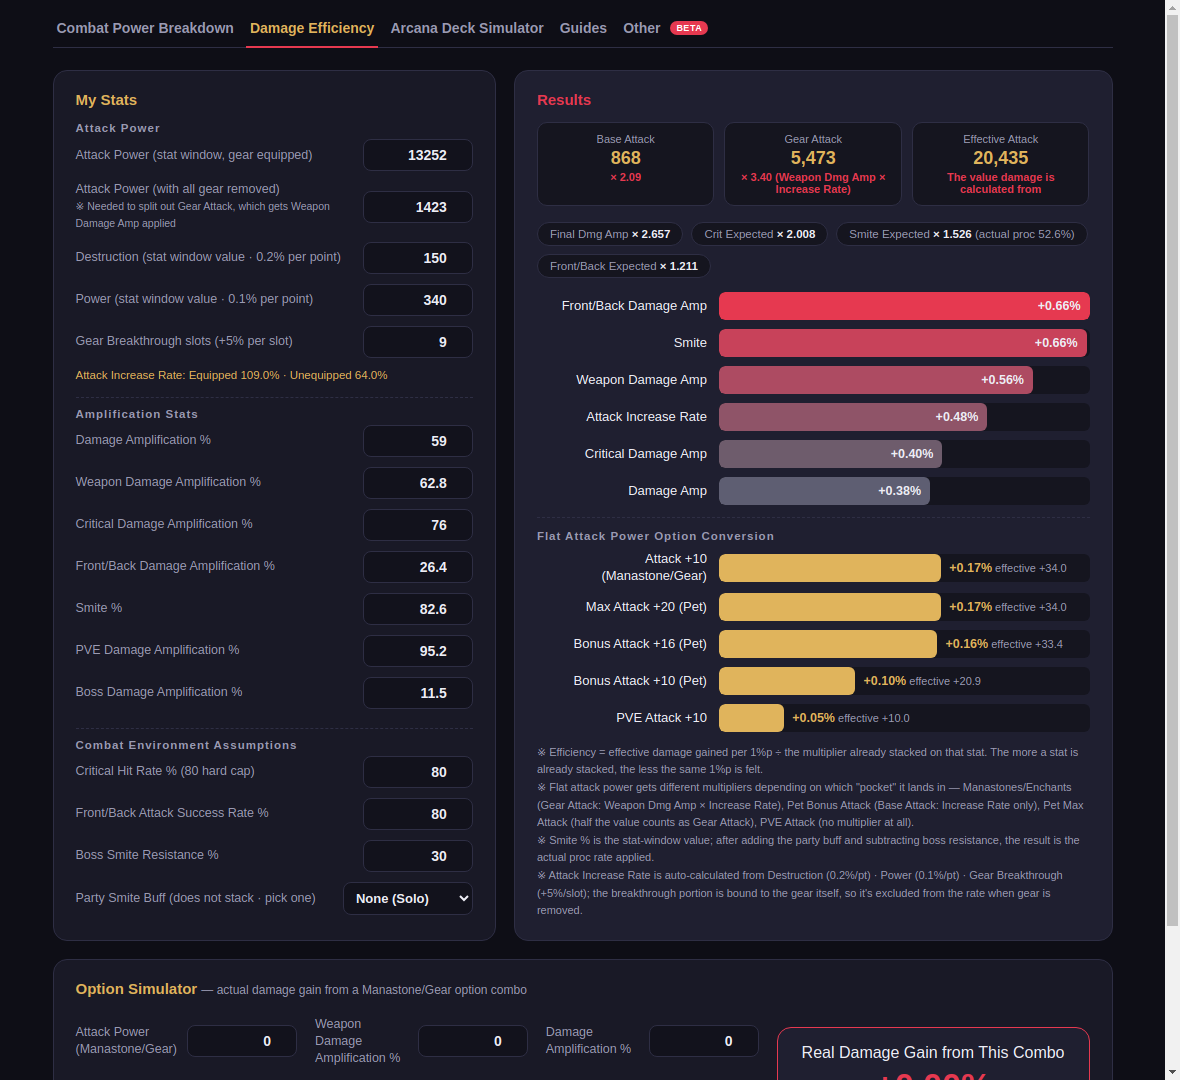
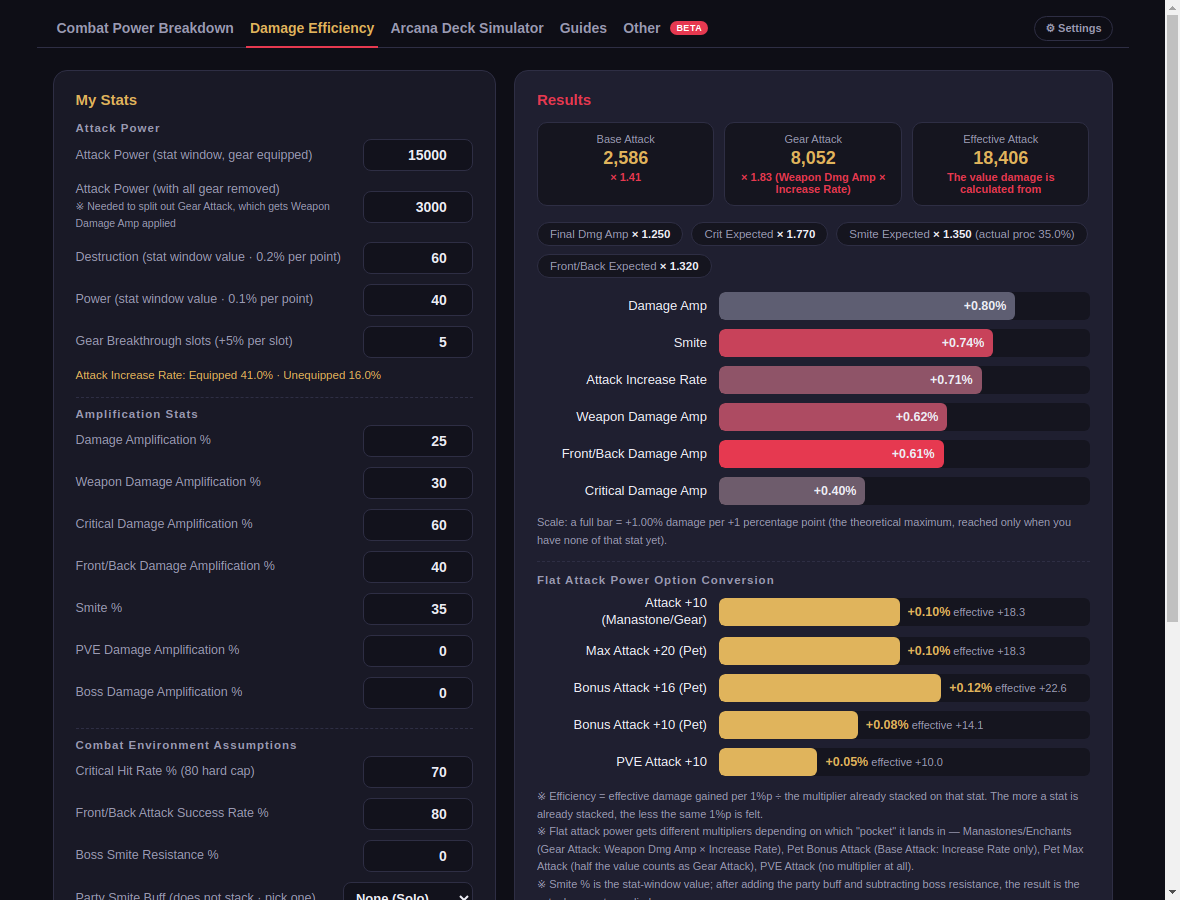
Drop the BETA badge from AI Assistant, document recent work in the README
The AI features are no longer marked BETA; the Other tab keeps its badge.

README now covers the settings menu and four themes, the AI Assistant
(including the provider table, which of them are free, which can search,
and the key-storage model), the AI guide-update layer and why it is kept
separate from the researched guides, the fixed Damage Efficiency bar scale,
persistence and the keyboard shortcuts. Adds screenshots for settings, the
update manager and an AI block in place, and refreshes the Damage
Efficiency shot for the new bar scale.

Claude-Session: https://claude.ai/code/session_01SQ6BczPMuWFshtfUDpAGGM

diff --git a/src/index.html b/src/index.html
@@ -307,7 +307,7 @@
       </div>
       <div class="note" style="margin-top:2px">The default hours are the Taiwan-server schedule our sources described. If your server differs, set them here rather than trusting ours.</div>
 
-      <div class="set-sect">AI Assistant <span class="beta-badge">BETA</span></div>
+      <div class="set-sect">AI Assistant</div>
       <div class="note" style="margin-top:0">Connects an AI model to look up guide information the app doesn't ship with. Answers are unverified and kept separate from the built-in guides. <b>Free options are marked FREE</b> and need no payment details.</div>
       <div class="field"><label>Enable AI Lookup</label>
         <select id="setAiEnabled"><option value="0">Off</option><option value="1">On</option></select>
@@ -633,7 +633,7 @@
     </div>
     <div class="subtabs">
       <button class="subtab-btn active" data-subtab="dungeons">Dungeon Mechanics</button>
-      <button class="subtab-btn" data-subtab="ailookup">AI Lookup <span class="beta-badge">BETA</span></button>
+      <button class="subtab-btn" data-subtab="ailookup">AI Lookup</button>
       <button class="subtab-btn" data-subtab="classes">Classes</button>
       <button class="subtab-btn" data-subtab="progression">Progression</button>
       <button class="subtab-btn" data-subtab="pvp">PvP</button>

diff --git a/README.md b/README.md
@@ -28,6 +28,10 @@ damage increase from raising each stat by 1 percentage point, which flat
 attack-power sources are worth the most, and a Manastone/Gear option
 simulator that recomputes your exact total damage change.
 
+Bars use a fixed scale — a full bar is +1.00% damage per +1 percentage
+point, which is the mathematical ceiling for every stat on the chart — so
+bar lengths mean the same thing between builds and across sessions.
+
 ![Damage Efficiency](screenshots/02-damage-efficiency.png)
 
 ### Arcana Deck Simulator
@@ -52,17 +56,65 @@ in the app that has no official English name yet.
 
 ### Other
 Daily/weekly quest checklist with real reset timing, a Field/World Boss and
-Taiwan-server Time Rift event timer, a best-effort Patch Notes fetcher with
-guaranteed fallback links to official sources, and general-purpose
-Enhancement Cost and Crafting Profit calculators.
-
-Everything you type is saved locally between sessions — stat inputs, Arcana
-deck, checklist progress, timers and calculator rows — and "Reset saved
-data" in the tab bar clears it. Ctrl/Cmd+1–5 switch tabs; Ctrl/Cmd+F jumps
-straight to dungeon search.
+Time Rift event timer, a best-effort Patch Notes fetcher with guaranteed
+fallback links to official sources, and general-purpose Enhancement Cost
+and Crafting Profit calculators.
 
 ![Daily/Weekly Checklist](screenshots/05-other-checklist.png)
 ![Boss/Event Timer](screenshots/06-other-bosstimer.png)
+
+### Settings
+Four themes — **Classic** (the original palette, and still the default),
+**Dark** (a more neutral dark), **Light**, and **Match system**. Plus a
+compact density mode, a choice of which tab the app opens on, and a
+configurable time zone and schedule for the Time Rift countdown.
+
+![Settings](screenshots/07-settings.png)
+
+Everything you type is saved locally between sessions — stat inputs, Arcana
+deck, checklist progress, timers and calculator rows — and "Reset saved
+data" clears it. Ctrl/Cmd+1–5 switch tabs; Ctrl/Cmd+F jumps straight to
+dungeon search.
+
+### AI Assistant — optional, bring your own model
+Connect an AI model to research information the app doesn't ship with. It's
+off by default and entirely opt-in.
+
+**Ask about Aion 2** answers one-off questions. **Update the app's guides**
+goes further: pick from 24 areas — the seven guide sections plus every
+instance in the dungeon index — and the model researches each one and adds
+what it finds to that section.
+
+![AI guide updates](screenshots/08-ai-updates.png)
+
+Findings appear as a marked block inside the relevant section, showing the
+provider, model, fetch time, a confidence rating per entry, and the sources
+cited. Each block can be refreshed or removed on its own, and one control
+removes them all.
+
+![An AI block inside the PvP guide](screenshots/09-ai-block.png)
+
+Seven providers, four of them free:
+
+| Provider | Free | Web search | Needs a key |
+|---|---|---|---|
+| Google Gemini | yes | yes (Google Search grounding) | yes |
+| OpenRouter | yes | yes (`:online` models) | yes |
+| Groq | yes | no | yes |
+| Ollama (runs locally) | yes | no | **no** |
+| Anthropic (Claude) | no | yes | yes |
+| OpenAI | no | no | yes |
+| Any OpenAI-compatible endpoint | — | — | optional |
+
+Ollama is the only option needing no account at all — the app can detect a
+local server, list your installed models and fill the field in. The others
+need a free account and key; none of them offer a keyless endpoint, and the
+app links straight to each provider's key page with the exact steps.
+
+Your key is held by the app's main process, encrypted with your operating
+system's secure storage where one is available, and is never exposed to the
+app's own page — the UI only ever sees whether a key is set and a masked
+hint of it. Requests go only to the provider you picked.
 
 ## Honesty by design
 
@@ -73,6 +125,14 @@ present guessed numbers as fact, this app is explicit throughout about
 what's confirmed vs. directional, cites its Korean/Taiwanese community
 sources, and gives you inputs to fill in with your own in-game values where
 no reliable number exists.
+
+The AI features follow the same rule and are deliberately kept as a
+**separate layer**. The app's own researched guides are the base and are
+never modified; AI findings are stored apart, always labelled unverified,
+and always reversible — so you can tell at a glance which is which, and
+undo anything that turns out to be wrong. A model without live web search
+is answering from training data that predates the current patch, and the
+app says so on every block it produces.
 
 ## Run in development
 
